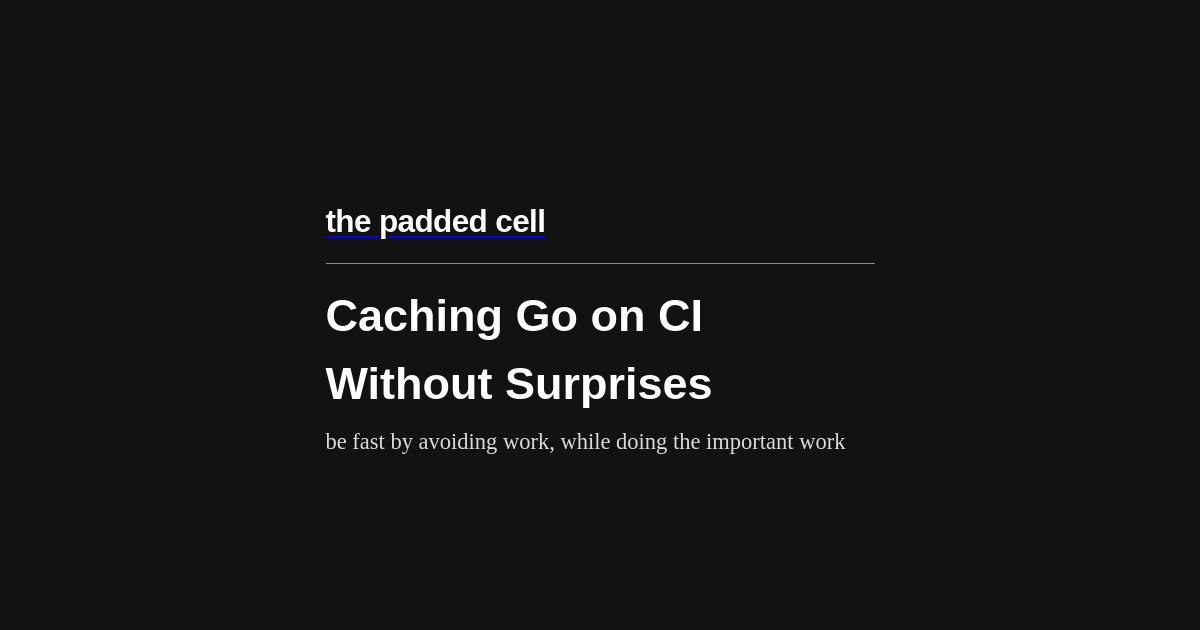
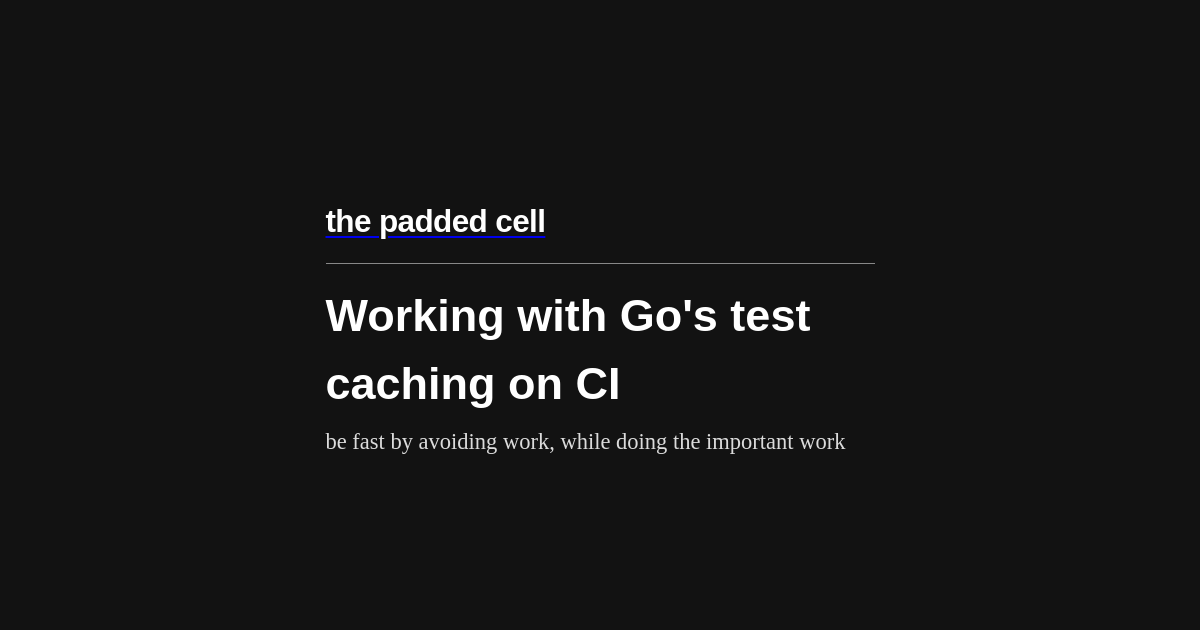
Change title to mention go's test cache
Because I feel it was buried and it's a key point of what we're doing.

Changed region(s): [[0.2775, 0.4524, 0.6783, 0.5429], [0.2775, 0.573, 0.6167, 0.6333]]

diff --git a/themes/sanitarium/layouts/partials/head.html b/themes/sanitarium/layouts/partials/head.html
@@ -1,5 +1,5 @@
 <meta charset="UTF-8">
-<title>{{ if .IsHome }}{{ .Site.Title }}{{ else }}{{ .Title }} - {{ .Site.Title }}{{ end }}</title>
+<title>{{ if .IsHome }}{{ .Site.Title }}{{ else }}{{ .Title }}{{ with .Params.subtitle }} — {{ . }}{{ end }} | {{ .Site.Title }}{{ end }}</title>
 <meta name="viewport" content="width=device-width, initial-scale=1">
 <meta name="color-scheme" content="dark light">
 
@@ -9,7 +9,7 @@
 <link rel="canonical" href="{{ .Permalink }}">
 
 <!-- Open Graph (Facebook, LinkedIn) -->
-<meta property="og:title" content="{{ if .IsHome }}{{ .Site.Title }}{{ else }}{{ .Title }}{{ end }}">
+<meta property="og:title" content="{{ if .IsHome }}{{ .Site.Title }}{{ else }}{{ .Title }}{{ with .Params.subtitle }} — {{ . }}{{ end }}{{ end }}">
 <meta property="og:description" content="{{ with .Description }}{{ . }}{{ else }}{{ if .IsPage }}{{ .Summary | plainify }}{{ else }}{{ .Site.Params.description }}{{ end }}{{ end }}">
 <meta property="og:url" content="{{ .Permalink }}">
 <meta property="og:site_name" content="{{ .Site.Title }}">
@@ -57,7 +57,7 @@
 
 <!-- Twitter Card -->
 <meta name="twitter:card" content="{{ if $ogImage }}summary_large_image{{ else }}summary{{ end }}">
-<meta name="twitter:title" content="{{ if .IsHome }}{{ .Site.Title }}{{ else }}{{ .Title }}{{ end }}">
+<meta name="twitter:title" content="{{ if .IsHome }}{{ .Site.Title }}{{ else }}{{ .Title }}{{ with .Params.subtitle }} — {{ . }}{{ end }}{{ end }}">
 <meta name="twitter:description" content="{{ with .Description }}{{ . }}{{ else }}{{ if .IsPage }}{{ .Summary | plainify }}{{ else }}{{ .Site.Params.description }}{{ end }}{{ end }}">
 {{ with $ogImage }}
 <meta name="twitter:image" content="{{ . | absURL }}">

diff --git a/script/genbanners.py b/script/genbanners.py
@@ -32,6 +32,7 @@ import csv
 import hashlib
 import json
 import os
+import re
 import subprocess
 import sys
 import time
@@ -281,7 +282,8 @@ class BannerGenerator:
                                 post_path = slug
 
                             # Determine banner path and calculate checksums
-                            banner_path = os.path.join(self.args.output_dir, f"{date.split('T')[0]}-{slug}.png")
+                            clean_slug = re.sub(r'^\d{4}-\d{2}-\d{2}-', '', slug)
+                            banner_path = os.path.join(self.args.output_dir, f"{date.split('T')[0]}-{clean_slug}.png")
 
                             # Normalize content before calculating checksum
                             normalized_date = self.normalize_content(date)

diff --git a/content/blog/2025-07-07-caching-go-on-ci-without-surprises.md b/content/blog/2025-07-07-caching-go-on-ci-without-surprises.md
@@ -2,7 +2,7 @@
 author: 'björn'
 date: '2025-07-07T21:50:00+08:00'
 lastmod: '2025-07-07T21:50:00+08:00'
-title: 'Caching Go on CI Without Surprises'
+title: Working with Go's test caching on CI
 subtitle: 'be fast by avoiding work, while doing the important work'
 tags:
   - golang
@@ -10,6 +10,8 @@ tags:
   - cache
   - testing
   - integration-testing
+aliases:
+  - "/blog/2025/07/07/caching-go-on-ci-without-surprises/"
 ---
 
 I was trying to speed up our slow CI by caching Go builds. The easy win was caching `GOMODCACHE` for dependencies, i.e. all the Go modules we've downloaded, but when I added `GOCACHE` for the build, which means that I don't have to recompile all the code that hasn't changed since the cache was made, I got a pleasant surprise: the tests were caching too. 🥳
